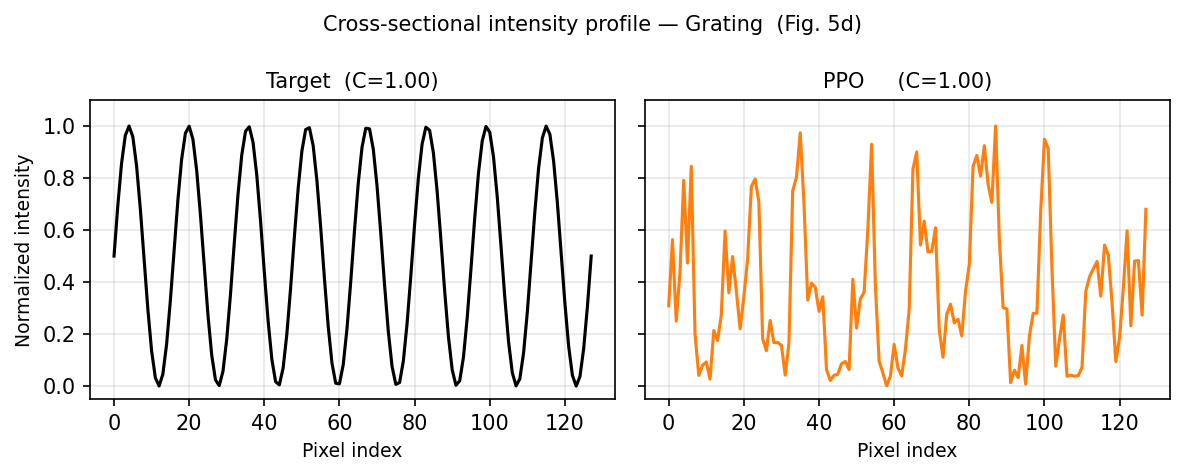
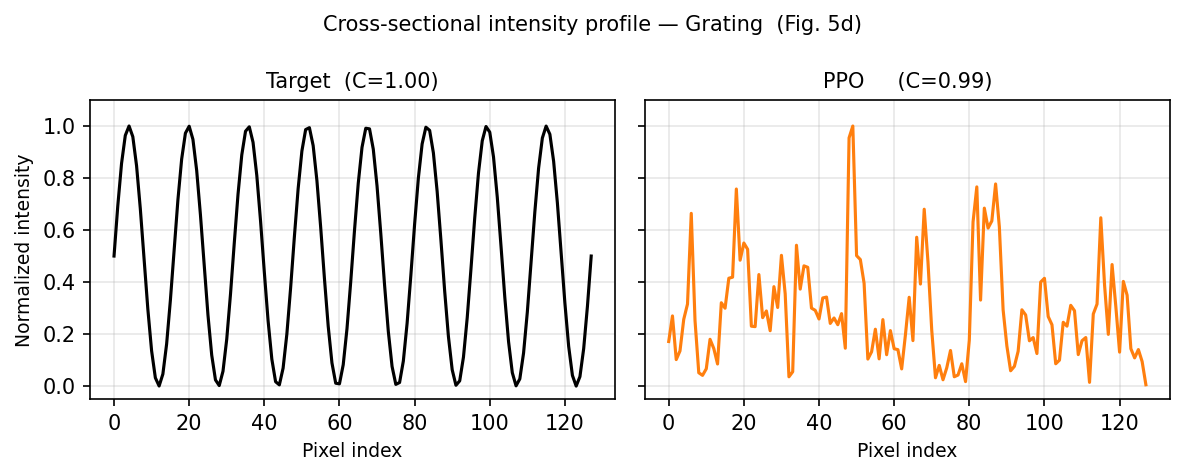
更新了参数n_iter

Changed region(s): [[0.5625, 0.2647, 0.9688, 0.8235], [0.7812, 0.1471, 0.8438, 0.1765]]

diff --git a/train_holographic_ppo.py b/train_holographic_ppo.py
@@ -320,7 +320,7 @@ def save_phase_pattern(phase, path, title):
 
 def parse_args():
     p = argparse.ArgumentParser(description='全息图像生成实验复现 (论文 Fig. 5)')
-    p.add_argument('--n_iter',         type=int,   default=3000)
+    p.add_argument('--n_iter',         type=int,   default=10000)
     p.add_argument('--M',              type=int,   default=256,
                    help='每轮采样数（论文物理：32；仿真推荐：256）')
     p.add_argument('--K',              type=int,   default=4,
